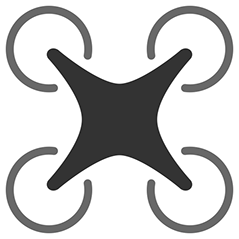
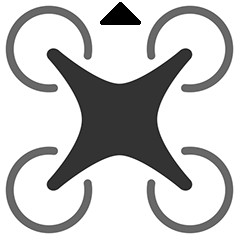
Updated to display safe mode status and cleaned up some redundant code, also updated directional drone image.

Changed region(s): [[0.41, 0.0, 0.5858, 0.1172]]

diff --git a/LeapDroneController/LeapDroneController/FlightDeck.xaml b/LeapDroneController/LeapDroneController/FlightDeck.xaml
@@ -6,7 +6,7 @@
         xmlns:models="clr-namespace:LeapDroneController.Models"
         mc:Ignorable="d"
         xmlns:converters="clr-namespace:LeapDroneController.Converters"
-        Title="MainWindow" Height="350" Width="525">
+        Title="FlightDeck" Height="350" Width="525">
     <d:Window.DataContext>
         <models:DroneData/>
     </d:Window.DataContext>
@@ -29,6 +29,8 @@
                 <TextBlock Text="{Binding Heading}"/>
                 <Label>Action</Label>
                 <TextBlock Text="{Binding CurrentAction}"/>
+                <Label>Safe mode</Label>
+                <TextBlock Text="{Binding SafeMode}"/>
             </StackPanel>
             <Grid Margin="0 0 30 30">
                 <Grid.ColumnDefinitions>

diff --git a/LeapDroneController/LeapDroneController/Models/DroneData.cs b/LeapDroneController/LeapDroneController/Models/DroneData.cs
@@ -27,6 +27,7 @@ namespace LeapDroneController.Models
         private decimal _thrust;
         private decimal _forwardsBackwardsAngle;
         private decimal _heading;
+        private bool _safeMode = true;
 
         private Action _currentAction = Action.Hover;
 
@@ -47,6 +48,21 @@ namespace LeapDroneController.Models
         public ZAxisState ZAxisState { get; private set; }
 
         public HeadingState HeadingState { get; private set; }
+
+        public bool SafeMode
+        {
+            get { return _safeMode; }
+            set
+            {
+                if (_safeMode == false && value == true)
+                {
+                    CurrentAction = Action.Hover;
+                    UpdateValues();
+                }
+                _safeMode = value;
+                OnPropertyChanged();
+            }
+        }
 
         public decimal LeftRightAngle
         {
@@ -88,14 +104,10 @@ namespace LeapDroneController.Models
             }
         }
 
-        public void SetSafe()
-        {
-            CurrentAction = Action.Hover;
-            UpdateValues();
-        }
-
         public void UpdateGesture(Vector leftHandVector, Vector rightHandVector)
         {
+            SafeMode = false;
+
             float xValue = leftHandVector.y - rightHandVector.y;
             float yValue = (leftHandVector.y + rightHandVector.y) / 2 - 150;
             float zValue = (leftHandVector.z + rightHandVector.z) / 2 - 50;
@@ -110,6 +122,7 @@ namespace LeapDroneController.Models
 
         private void UpdateValues()
         {
+            if(SafeMode)return;
             UpdateLeftRightAngle();
             UpdateForwardBackwardAngle();
             UpdateThrust();
@@ -278,7 +291,7 @@ namespace LeapDroneController.Models
             }
             CurrentAction = Action.Hover;
         }
-        
+
         public event PropertyChangedEventHandler PropertyChanged;
 
         [NotifyPropertyChangedInvocator]

diff --git a/LeapDroneController/LeapDroneController/StateManagement/DroneStateManager.cs b/LeapDroneController/LeapDroneController/StateManagement/DroneStateManager.cs
@@ -38,37 +38,16 @@ namespace LeapDroneController.StateManagement
 
     public static class DroneStateManager
     {
-        private static bool _userConnectionState;
-
         static DroneStateManager()
         {
-            IsFlying = false;
             DroneData = new DroneData();
         }
 
-        public static bool IsFlying { get; private set; }
-
         public static DroneData DroneData { get; set; }
-
-        public static bool UserConnectionState
-        {
-            get { return _userConnectionState; }
-            set
-            {
-                _userConnectionState = value;
-                if (!value)
-                {
-                    SetDroneToSafe();
-                }
-            }
-        }
 
         public static void SetDroneToSafe()
         {
-            if (IsFlying)
-            {
-                DroneData.SetSafe();
-            }
+            DroneData.SafeMode = true;
         }
 
         public static void Update(Hand leftHand, Hand rightHand)

diff --git a/LeapDroneController/LeapDroneController/StateManagement/LeapConnector.cs b/LeapDroneController/LeapDroneController/StateManagement/LeapConnector.cs
@@ -84,7 +84,9 @@ namespace LeapDroneController.StateManagement
             DroneStateManager.SetDroneToSafe();
             FrameLoadTimer.Stop();
             MessageBox.Show(
-                "Controller not connected, please connect you Leap Motion device and ensure the Leap service is running",
+                "Controller not connected! \n" +
+                "Please ensure your Leap Motion device is connected" +
+                "and the Leap service is running.",
                 "Controller Error!");
         }
     }

diff --git a/LeapDroneController/LeapDroneController/Config/ConfigData.cs b/LeapDroneController/LeapDroneController/Config/ConfigData.cs
@@ -13,6 +13,6 @@
         public static decimal MaxThrust { get; private set; } = 100;
         public static decimal MinThrust { get; private set; } = 5;
 
-        public static int ErrorToleranceBeforeSafeMode { get; private set; } = 20;
+        public static int ErrorToleranceBeforeSafeMode { get; private set; } = 10;
     }
 }
